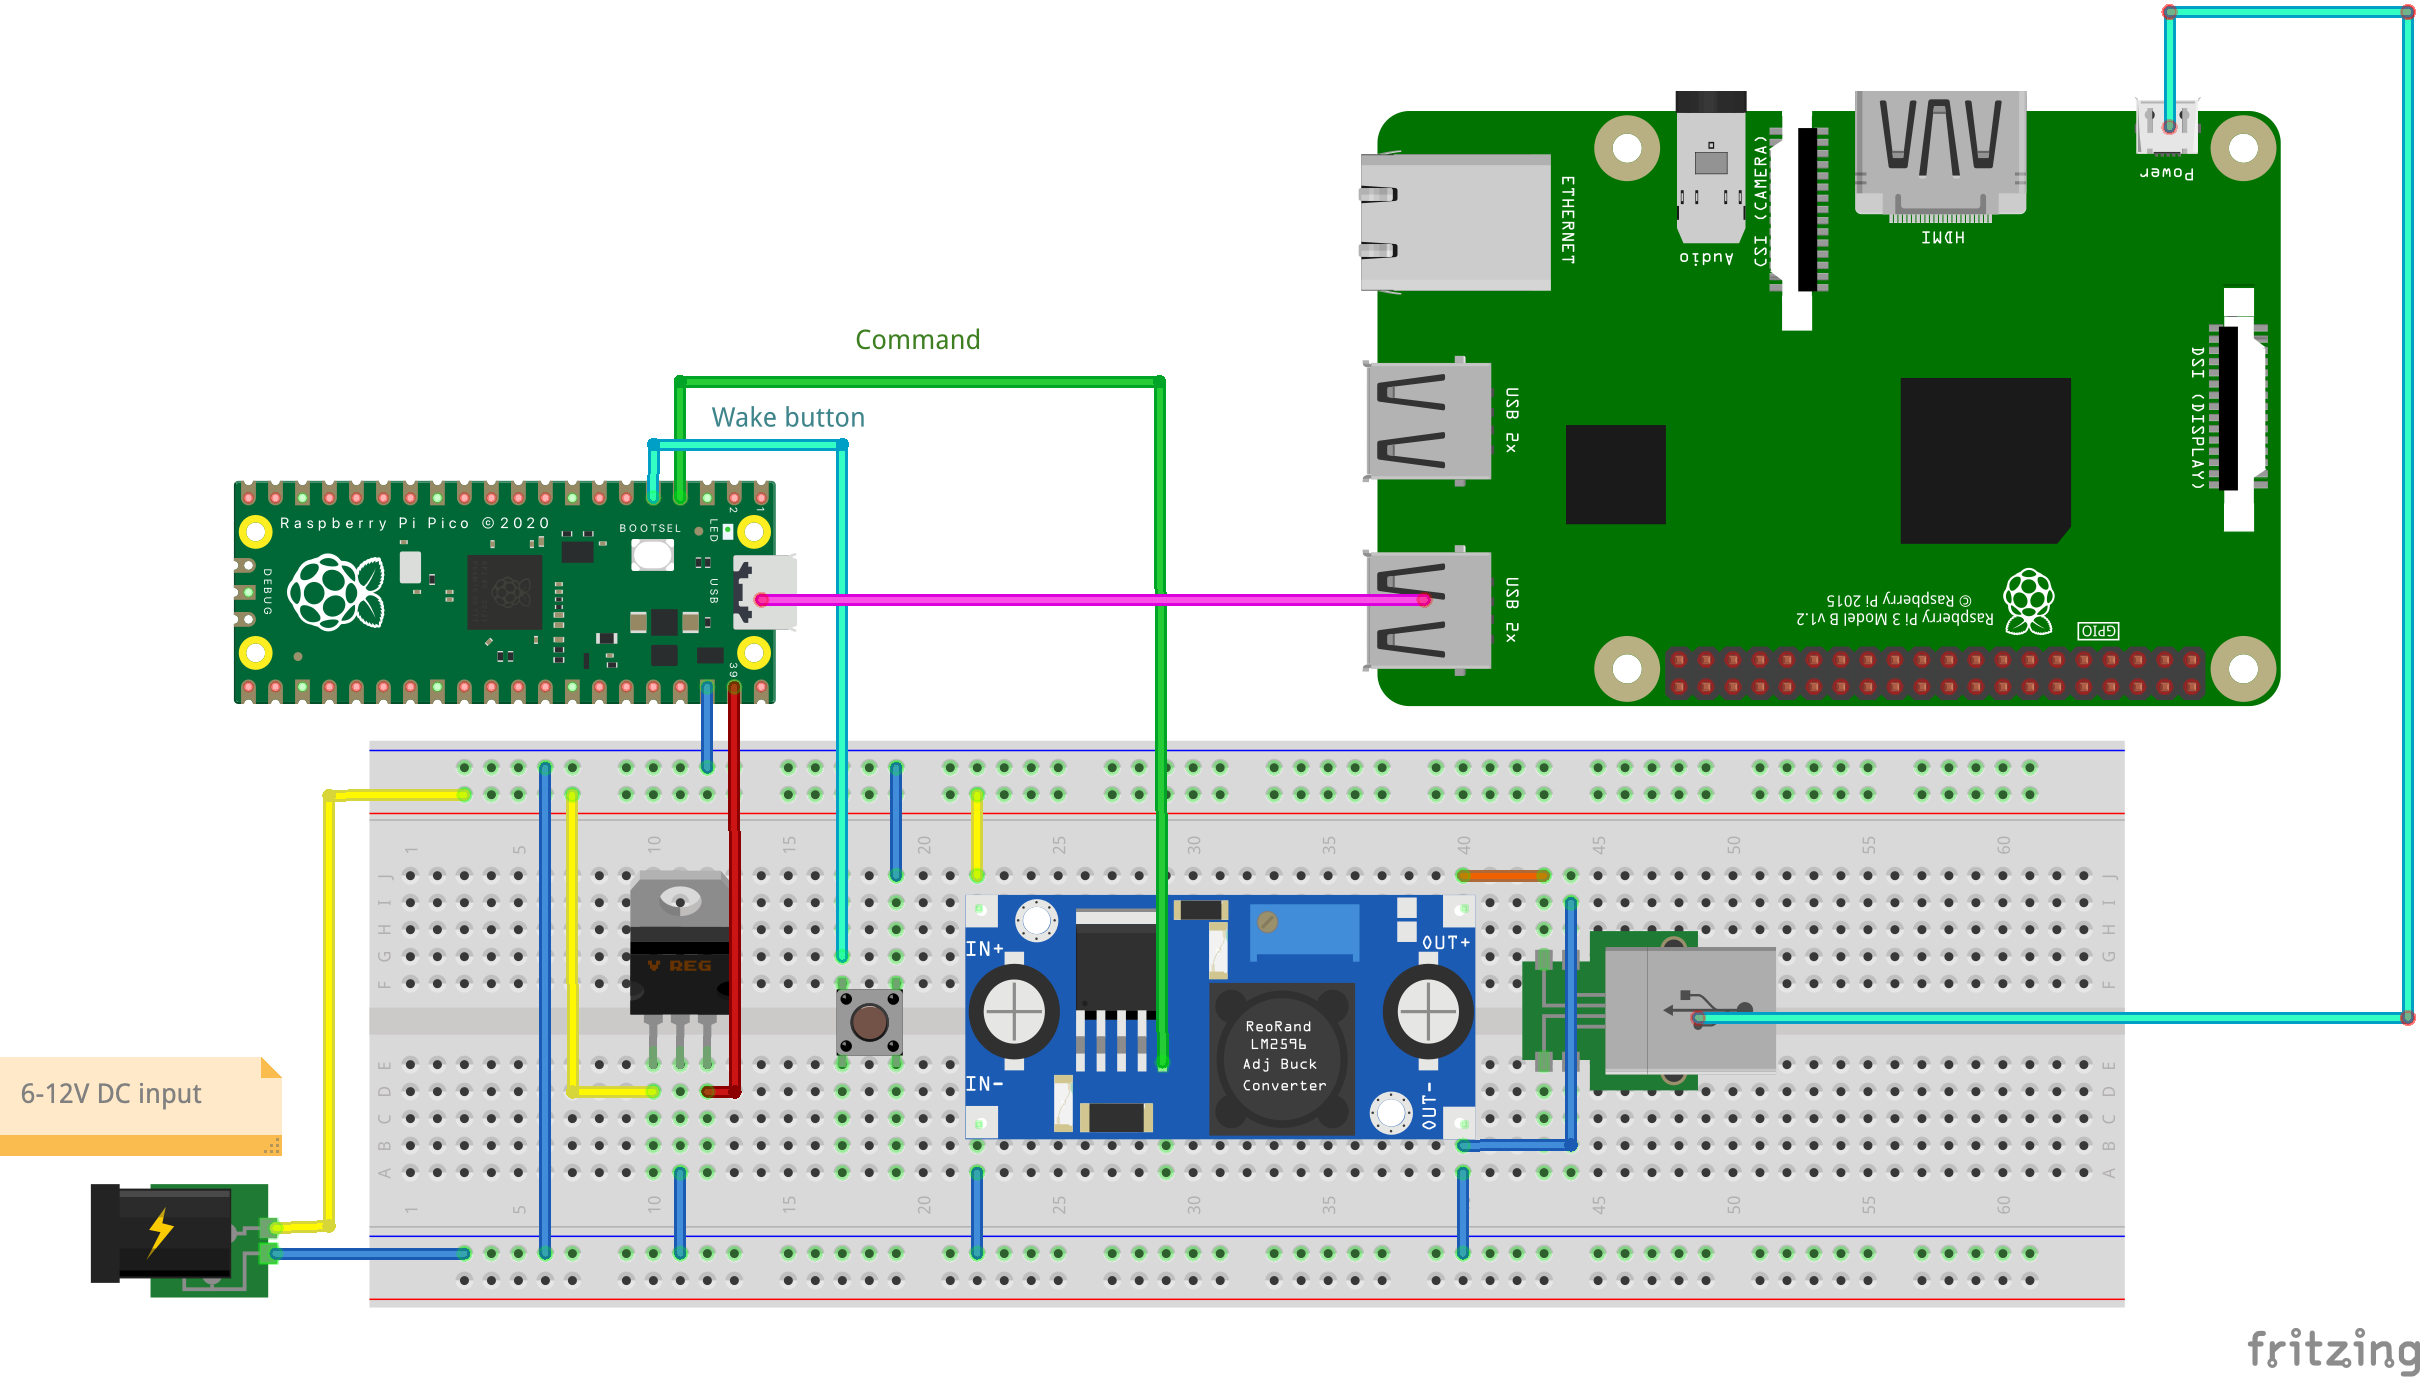
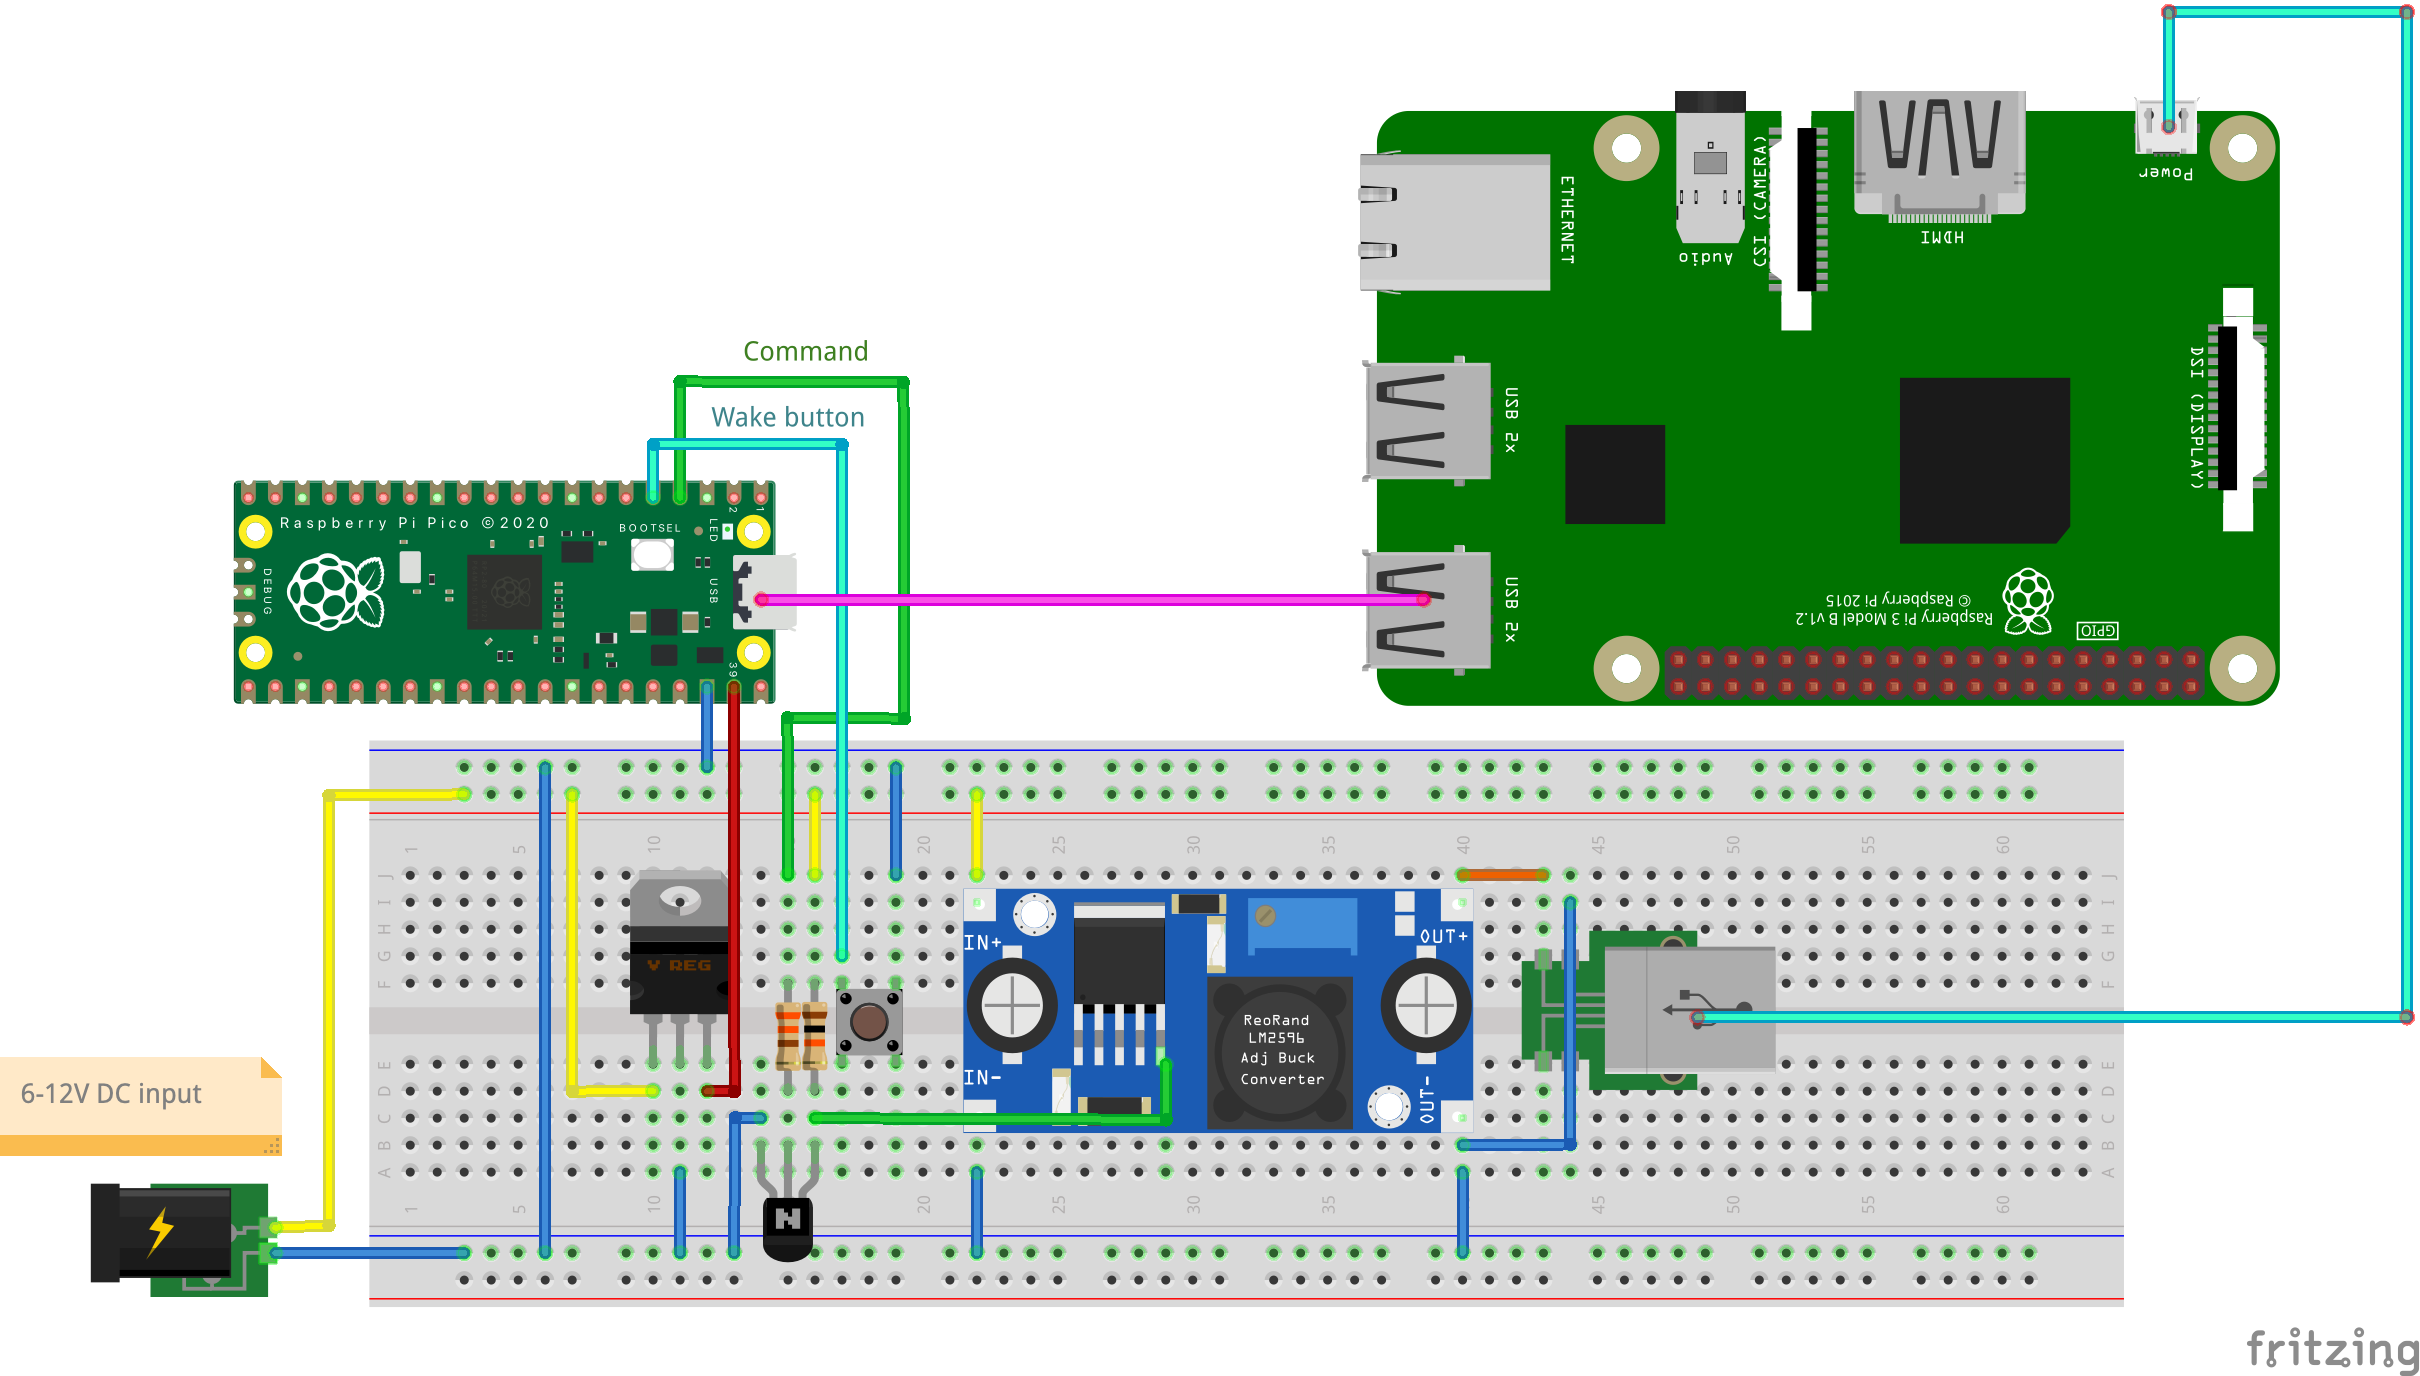
Working on the blog post

diff --git a/doc/blog.md b/doc/blog.md
@@ -87,7 +87,9 @@ As the Pico is capable of USB communication, it will be connected to the Pi via 
 
 Thanks to the clever design of this tiny board, a _VSYS_ pin is exposed on its headers, and is a 5V power input, diode protected from the _VBUS_ input (the USB bus power input). This means if you power the board using a 5V power supply on _VSYS_, it will keep running even when the Pi is OFF, and it won't send power to it through the USB port. This is done using the <span style='color:red;'>Red</span> wire and the 5V voltage regulator (here a 7805, but a higher efficiency one should be preferred).
 
-We the want to connect one of the GPIO (General Purpose Input/Output) pins of the Pico to the control input of the Pi power supply (with <span style='color:green;'>Green</span> wire). We chose GPIO 2 for this purpose, as GPIO 0 and 1 are reserved for the default serial communication bus.
+We the want to connect one of the GPIO (General Purpose Input/Output) pins of the Pico to the control input of the Pi power supply (with <span style='color:green;'>Green</span> wire). **Note in the diagram we are using a BC547 NPN transistor in-line to invert the signal, as the LM2596S control input is active low.**
+
+We chose GPIO 2 for this purpose, as GPIO 0 and 1 are reserved for the default serial communication bus.
 
 We might want to wake-up the Pi using a button press (or any ON/OFF switching mechanism, like a door sensor or a pressure plate). If this is the cas, you can connect the switch between GPIO 3 (<span style='color:cyan;'>Cyan</span> wire from the Pico) and GND (<span style='color:blue;'>Blue</span> wires).
 
@@ -111,6 +113,31 @@ First things first: we have to program the Pico with the [Morpheus Firmware](htt
 4. When the disk has disappeared, disconnect the Pico from your computer, it is ready to go.
 
 #### 2. Adding the block to your project
+
+First step it to add the `morpheus-serial` block to your project. Add the following code to your `docker-compose.yml` file:
+
+```
+morpheus-serial:
+    image: bh.cr/g_aurelien_valade/morpheus-serial
+    cap_add:
+      - NET_ADMIN
+      - SYS_ADMIN
+      - SYS_RAWIO
+    labels:
+      io.balena.features.supervisor-api: '1'
+      io.balena.features.balena-api: '1'
+      io.balena.features.sysfs: '1'
+      io.balena.features.kernel-modules: '1'
+    privileged: true
+    environment:
+      - "SERIAL_PORT=/dev/ttyACM0"
+    devices:
+      - "/dev/ttyACM0:/dev/ttyACM0"
+    expose:
+      - "5555"
+```
+
+You can adjust the `SERIAL_PORT` variable value, and the shared device if needed, but those should work fine with our configuration (not that the `SERIAL_PORT` variable is pointing to the shared device).
 
 #### 3. Using the API
 
